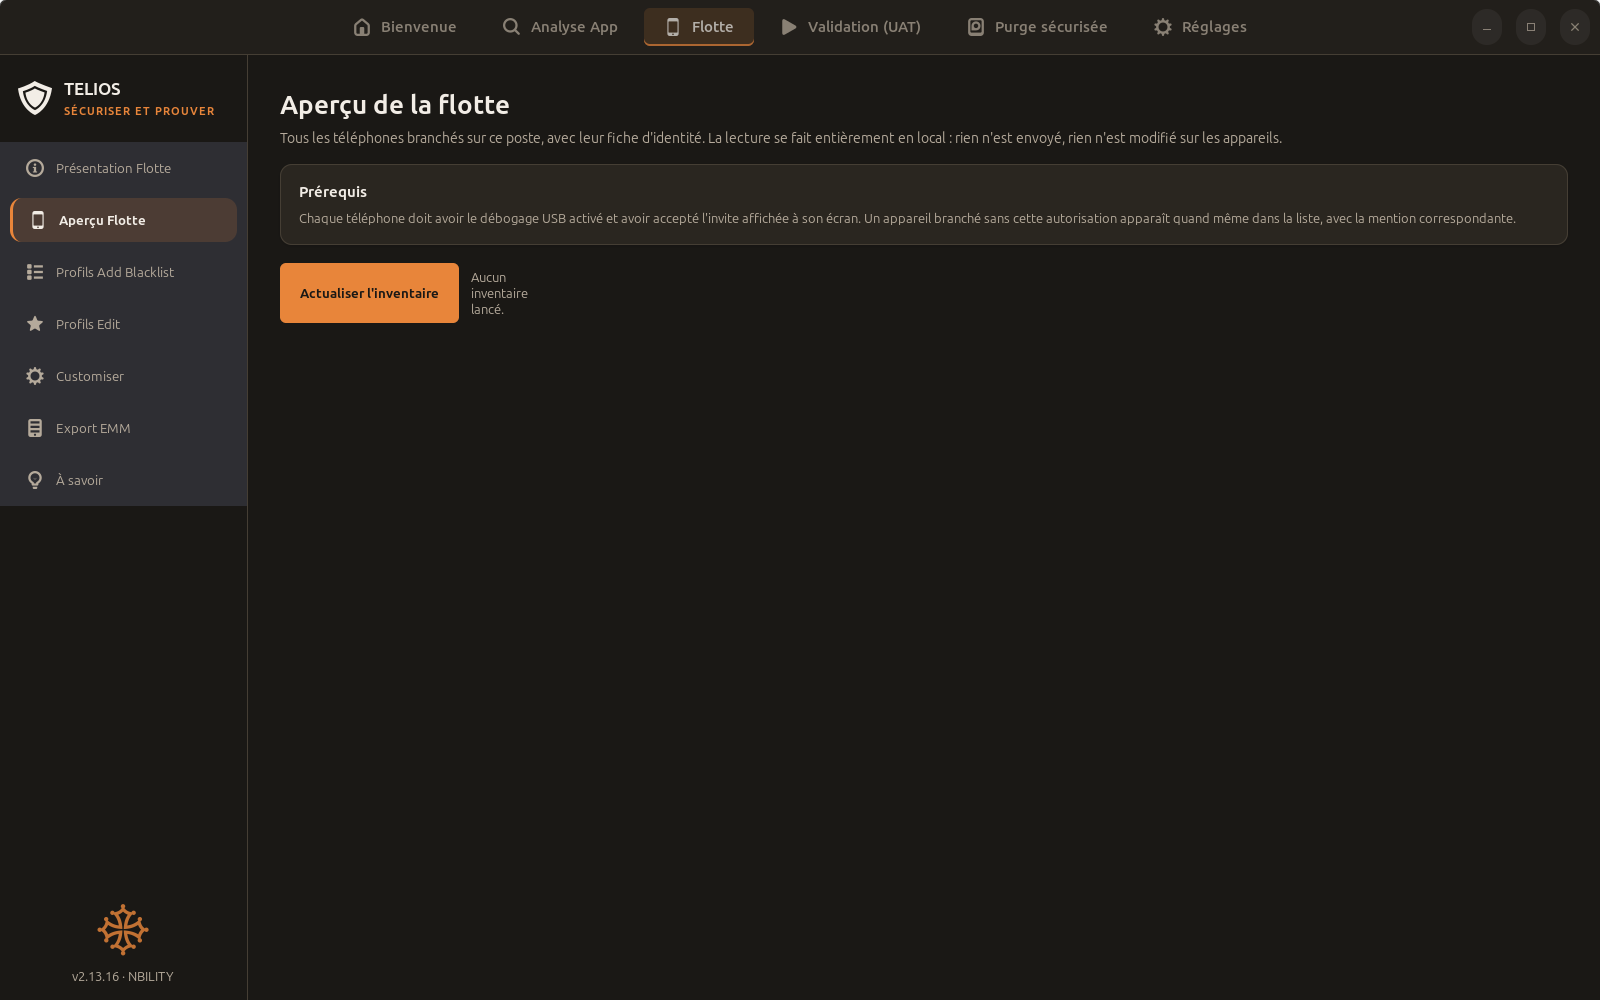
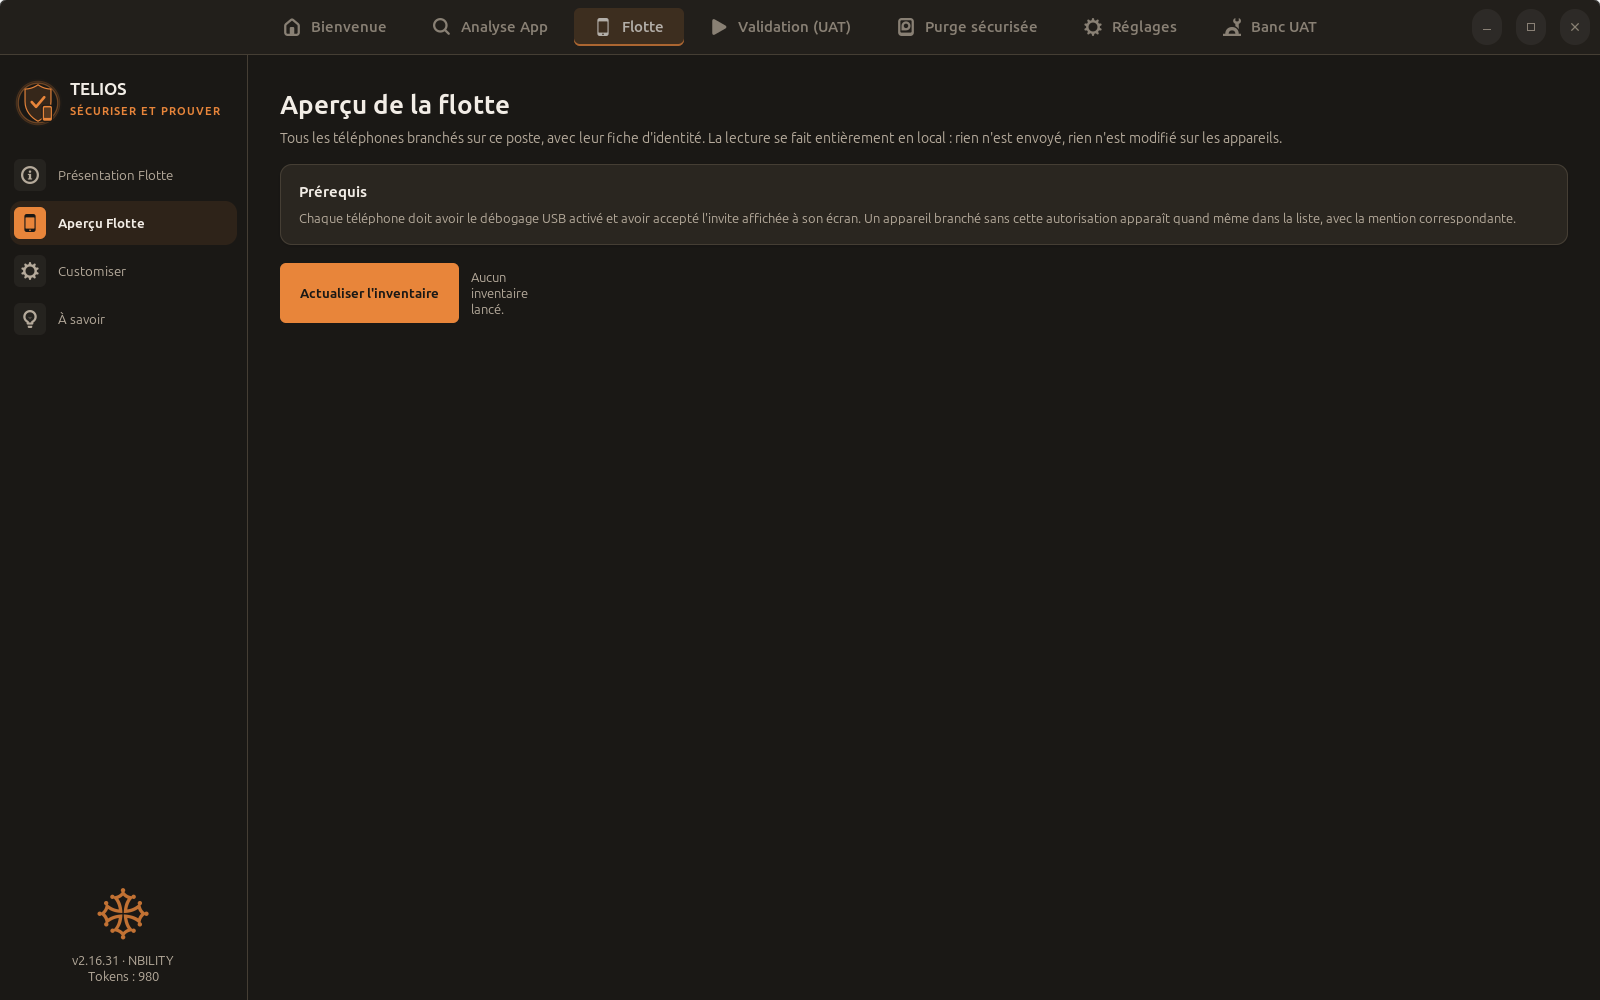
TELIOS 2.17.0

Changed region(s): [[0.0, 0.062, 0.1562, 0.527], [0.1875, 0.0, 0.8125, 0.062], [0.0625, 0.899, 0.0938, 0.992]]

diff --git a/README.md b/README.md
@@ -1,11 +1,11 @@
 <p align="center">
-  <img src="images/banniere-2.16.31.svg" width="100%" alt="TELIOS 2.16.31 — Une ligne, et le poste est prêt. Compatible Linux Mint 21+ et Ubuntu 22.04+.">
+  <img src="images/banniere-2.17.0.svg" width="100%" alt="TELIOS 2.17.0 — Une ligne, et le poste est prêt. Compatible Linux Mint 21+ et Ubuntu 22.04+.">
 </p>
 
 # TELIOS — sécuriser un parc mobile, et pouvoir le prouver
 
-**Dernière version : TELIOS 2.16.31, publiée le 16/10/2026** — signature TELIOS vérifiée ·
-[notes de version](https://github.com/NBILITY-HOME/TELIOS_RELEASES/releases/tag/v2.16.31)
+**Dernière version : TELIOS 2.17.0, publiée le 16/10/2026** — signature TELIOS vérifiée ·
+[notes de version](https://github.com/NBILITY-HOME/TELIOS_RELEASES/releases/tag/v2.17.0)
 
 TELIOS est l'outil de NBILITY pour auditer, préparer et assainir des
 smartphones Android depuis un poste Linux Mint ou Ubuntu. Il s'adresse aux
@@ -46,7 +46,7 @@ wget -O install.sh https://raw.githubusercontent.com/NBILITY-HOME/TELIOS_RELEASE
 ```
 
 <p align="center">
-  <img src="images/six-etapes.svg?v=2.16.31" width="100%" alt="Les six étapes : préparer le poste, lancer l'installation, laisser faire l'installateur, activer le poste, compléter les outils, rester à jour.">
+  <img src="images/six-etapes.svg?v=2.17.0" width="100%" alt="Les six étapes : préparer le poste, lancer l'installation, laisser faire l'installateur, activer le poste, compléter les outils, rester à jour.">
 </p>
 
 <details>
@@ -93,11 +93,11 @@ publiée, à partir du manifeste signé.
 
 ## Un aperçu
 
-![Bienvenue](images/bienvenue.png?v=2.16.31)
+![Bienvenue](images/bienvenue.png?v=2.17.0)
 
-![Aperçu de la flotte](images/flotte-apercu.png?v=2.16.31)
+![Aperçu de la flotte](images/flotte-apercu.png?v=2.17.0)
 
-![Analyse d'un téléphone](images/analyse.png?v=2.16.31)
+![Analyse d'un téléphone](images/analyse.png?v=2.17.0)
 
 ## Contact
 
